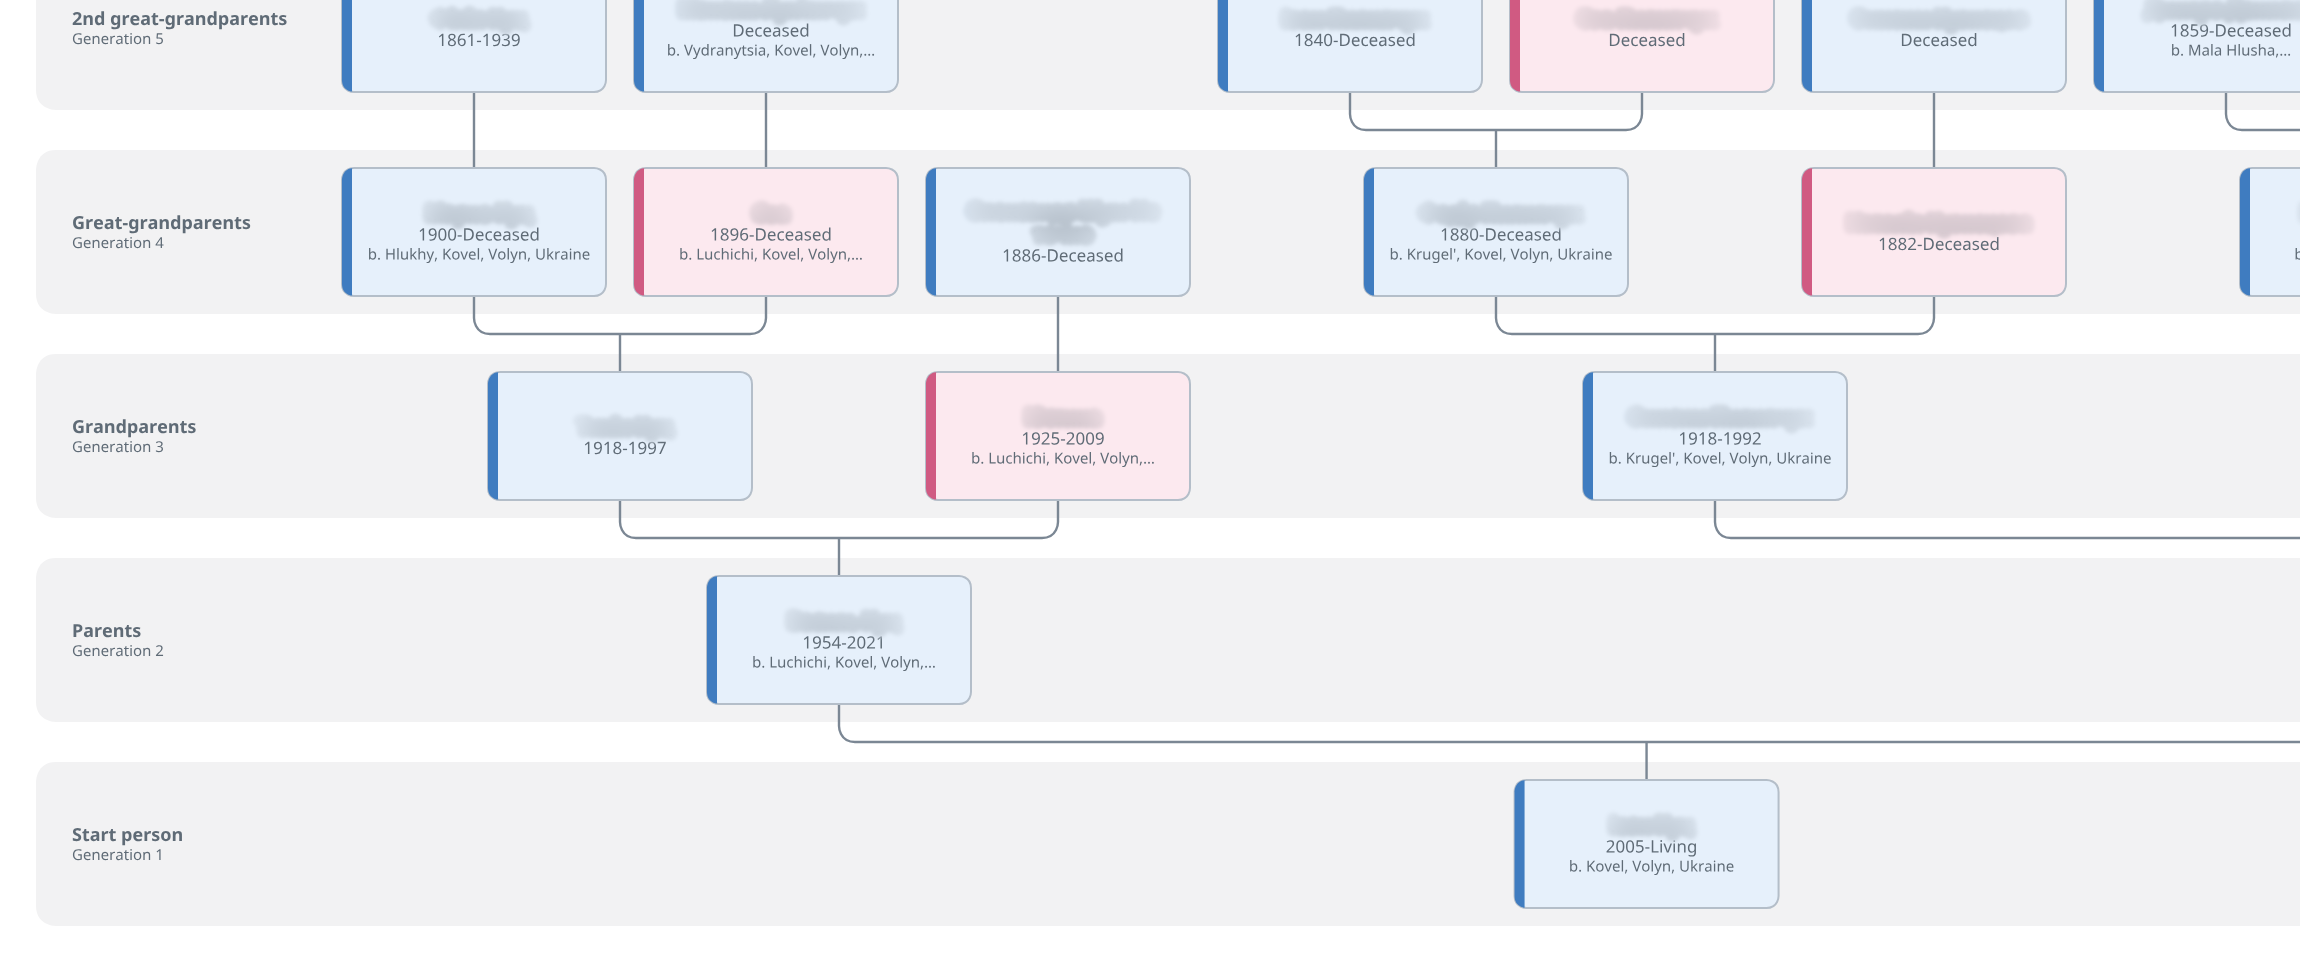
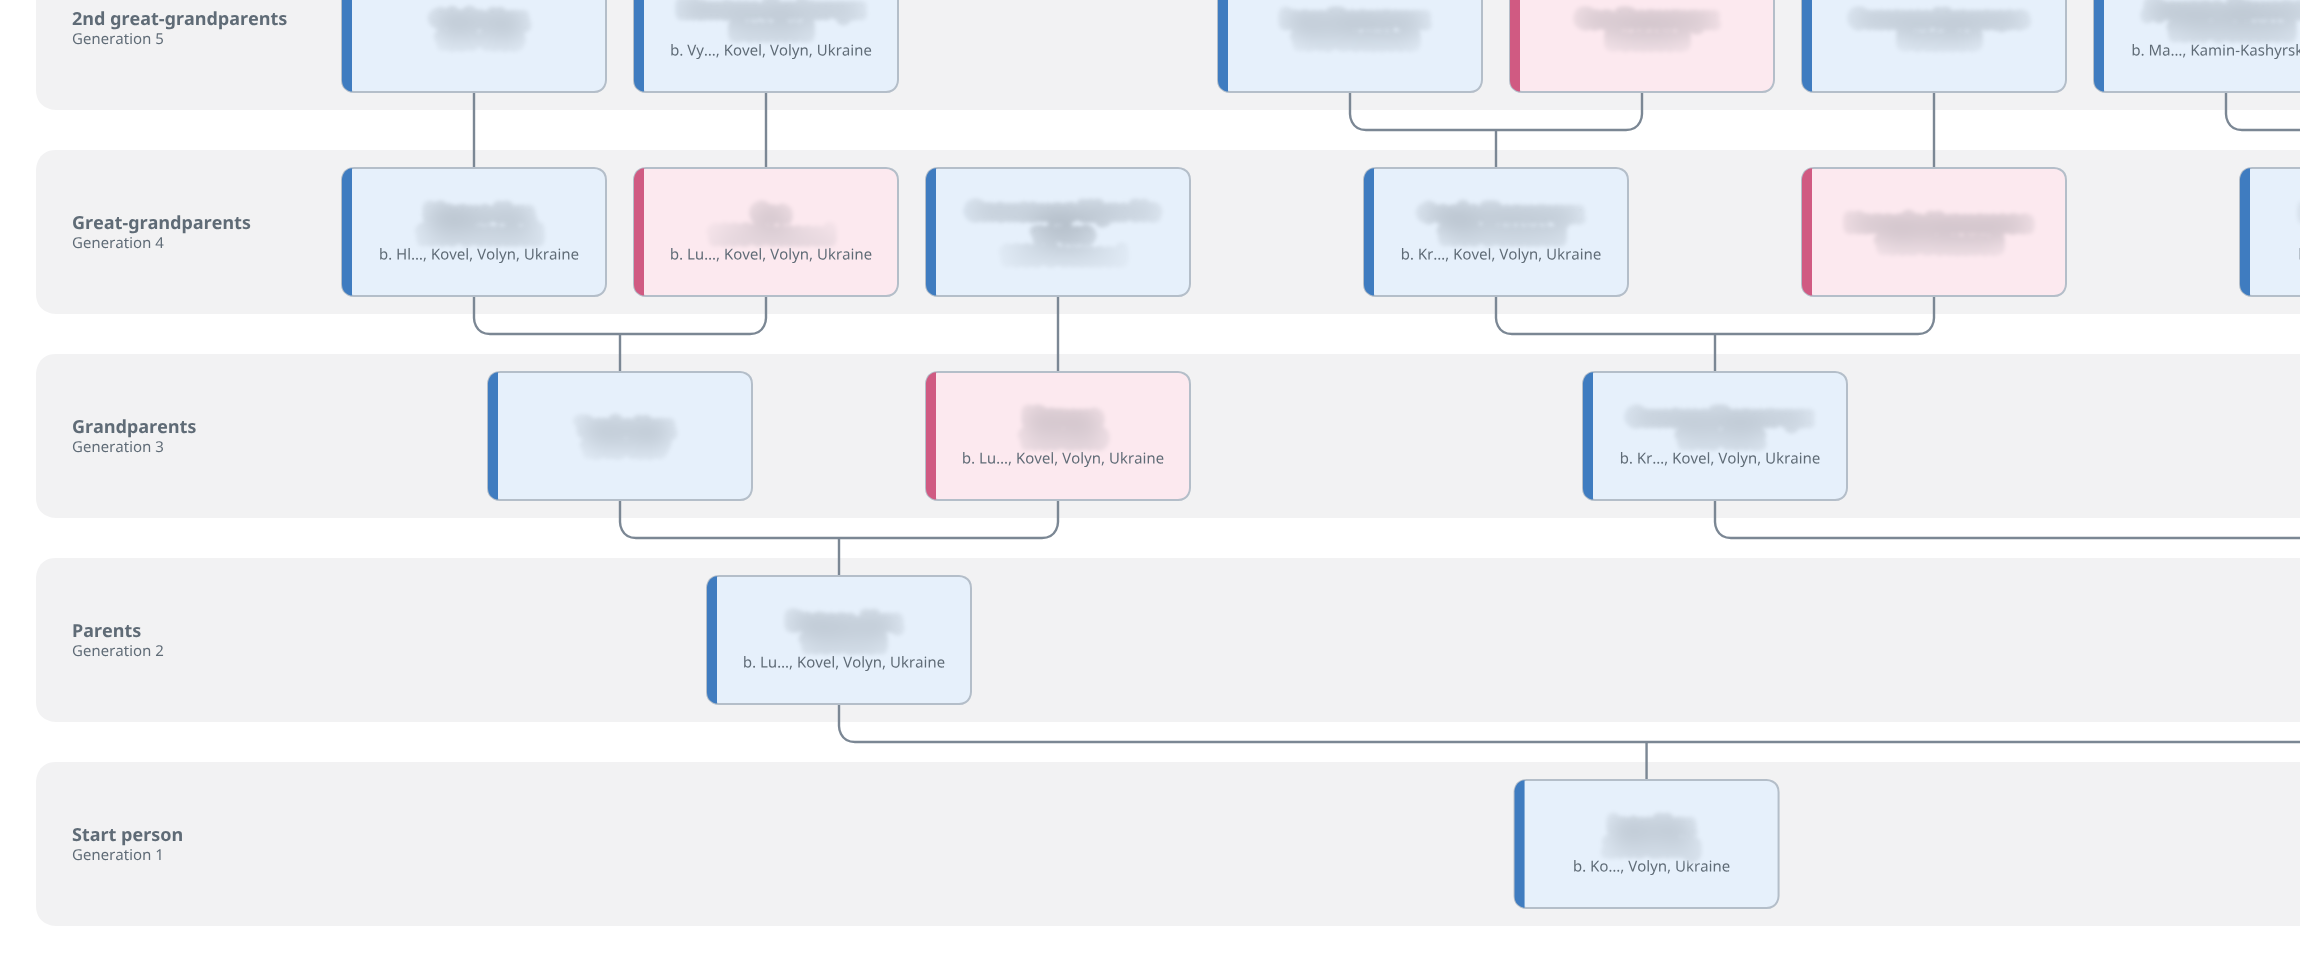
Blur years and shorten settlements in README example images
Names and years are blurred and each settlement keeps only its first two
letters, so the example no longer reveals where the family comes from.

diff --git a/README.md b/README.md
@@ -28,7 +28,7 @@ Requires [Node.js](https://nodejs.org) 18 or newer. Run `npm install`, then `npm
 
 ## Example
 
-A pedigree exported with the Classic color scheme (names blurred for privacy). Click an image to see it full size.
+A pedigree exported with the Classic color scheme. Names and years are blurred and settlements are shortened for privacy. Click an image to see it full size.
 
 [![Exported pedigree PDF](docs/example-pedigree.png)](docs/example-pedigree.png)
 
